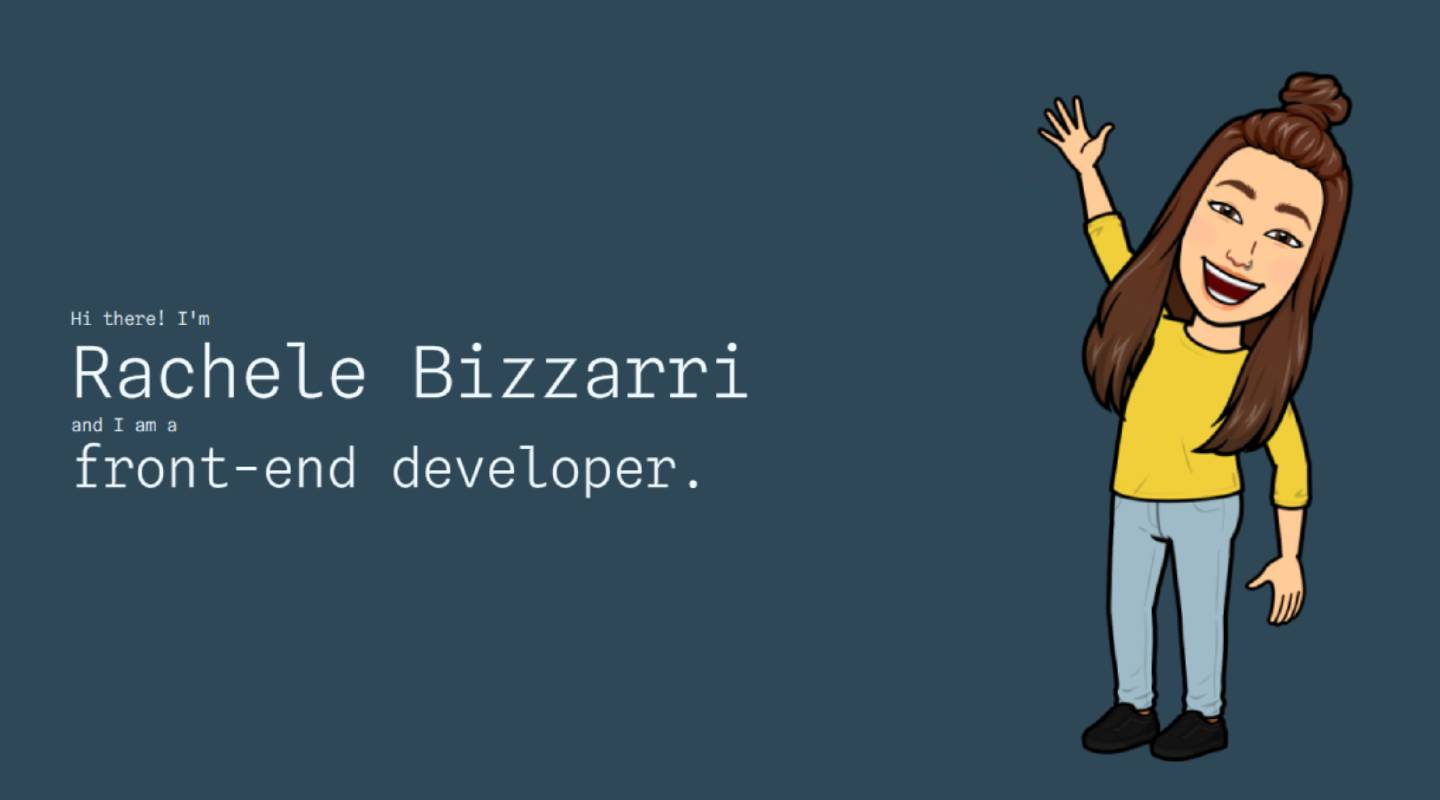
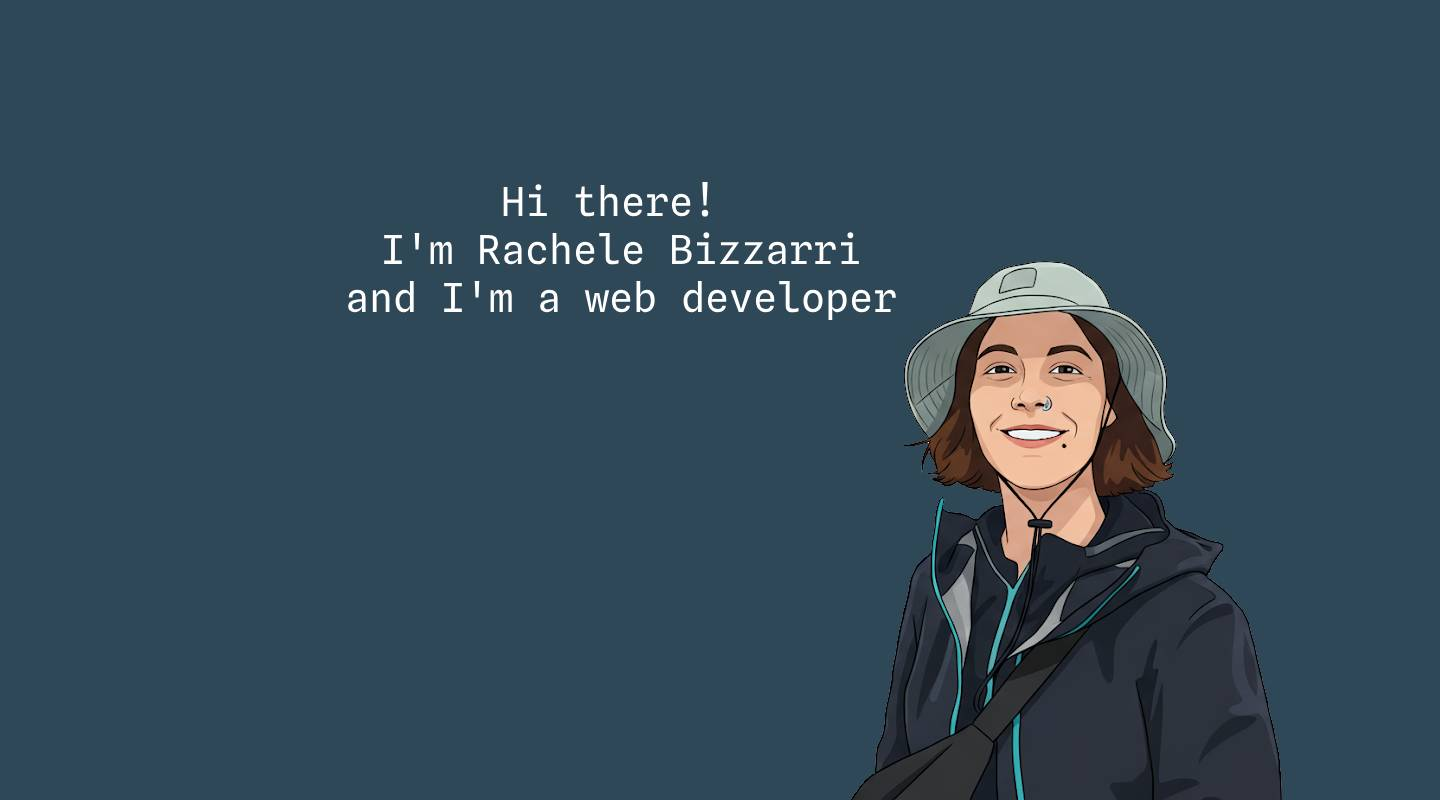
feat: add new self image

diff --git a/src/components/basic/IntroSection.vue b/src/components/basic/IntroSection.vue
@@ -1,13 +1,13 @@
 <script lang="ts">
 import { defineComponent } from 'vue'
-import EmojiWave from '@/assets/img/emoji-wave-01.png?url'
+import SelfImg from '@/assets/img/self.png?url'
 
 export default defineComponent({
     name: 'IntroSection',
     setup() {
 
       return {
-        EmojiWave
+        SelfImg
       }
     }
 })
@@ -15,16 +15,14 @@ export default defineComponent({
 
 <template>
   <!-- <section class="wrapper flex flex-col justify-center items-start"> -->
-  <section class="wrapper overflow-hidden intro-safe-area flex justify-center items-center flex-col lg:flex-row">
-    <div class="flex flex-col column-01 justify-center items-center text-center lg:text-left lg:items-start lg:w-[80%]">
+  <section class="wrapper overflow-hidden intro-safe-area flex items-center flex-col lg:justify-center lg:flex-row">
+    <div class="flex flex-col items-center text-center mt-[20%] lg:mt-0 lg:text-left lg:items-end">
       <h2 class="head-4">Hi there! I'm</h2>
       <h1 class="head-1">Rachele Bizzarri</h1>
       <h2 class="head-4">and I am a</h2>
-      <h2 class="head-2">web developer.</h2>
+      <h2 class="head-2">web developer</h2>
     </div>
-    <div class="flex column-02 w-[35%] mt-[2%] lg:w-[20%] lg:mt-[0]">
-      <img :src="EmojiWave" class="w-full" />
-    </div>
+    <img :src="SelfImg" class="mt-4 w-[80%] lg:mt-0 lg:w-[auto] h-[auto]" />
   </section>
 </template>
 
